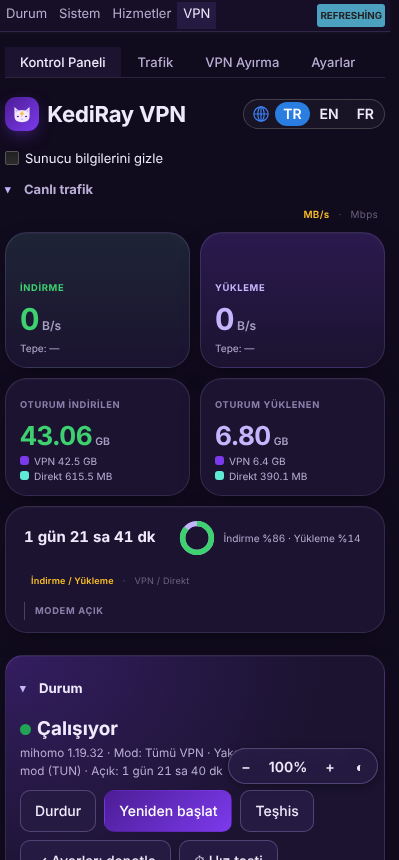
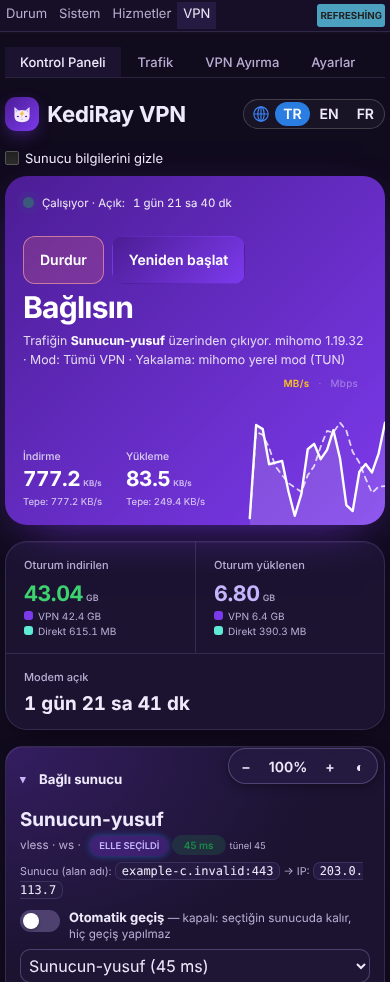
1.19.91: Kontrol Paneli yeni yerleşim (bağlantı kartı, oturum şeridi, araçlar)
Claude-Session: https://claude.ai/code/session_01UomefafxVQg1byN3XWgcWf

diff --git a/luci-app-kediray/htdocs/luci-static/resources/view/kediray/status.js b/luci-app-kediray/htdocs/luci-static/resources/view/kediray/status.js
@@ -581,7 +581,7 @@ function krTheme() {
 		/* Kedi tasarım sistemi: ortak stil dosyası + koyu/açık tema (Otomatik = sistem teması) */
 		if (!document.getElementById('kedi-css') && document.head) {
 			const lk = document.createElement('link');
-			lk.id = 'kedi-css'; lk.rel = 'stylesheet'; lk.href = '/luci-static/kedi.css?v=1.19.90';
+			lk.id = 'kedi-css'; lk.rel = 'stylesheet'; lk.href = '/luci-static/kedi.css?v=1.19.91';
 			document.head.appendChild(lk);
 		}
 		const mq = window.matchMedia ? window.matchMedia('(prefers-color-scheme: dark)') : null;
@@ -1119,17 +1119,25 @@ return view.extend({
 		if (this.ownPrev !== undefined && this.ownPrev !== !!st.own) { location.reload(); return; }
 		this.ownPrev = !!st.own;
 		this.own = !!st.own;
-		[this.elApps, this.elNodes, this.elDevs].forEach(el => { if (el) el.style.display = this.own ? 'none' : ''; });
+		[this.elApps, this.elNodes, this.elDevs, this.elTools].forEach(el => { if (el) el.style.display = this.own ? 'none' : ''; });
 		const dot = st.running ? 'kr-on' : (st.enabled ? 'kr-err' : 'kr-off');
 		const txt = st.running ? 'Çalışıyor' : (st.enabled ? 'Durdu — Günlük sekmesine bak' : 'Kapalı');
 		const modes = { rule: 'Tümü VPN', global: 'Tümü VPN', list: 'Sadece liste VPN' };
 		const cf = st.conflict || [];
-		this.card(this.elStatus, 'status', 'Durum', [
-			h('div', { 'class': 'kr-big' }, [h('span', { 'class': 'kr-dot ' + dot }), txt]),
-			h('div', { 'class': 'kr-sub' }, [
+		const act = st.active;
+		const toggle = cf.length && !st.enabled
+			? btn.call(this, '⇄ Güvenli geçiş', 'cbi-button-positive', () => this.doTakeover(st))
+			: btn.call(this, st.enabled ? 'Durdur' : 'Başlat', st.enabled ? 'cbi-button-negative' : 'cbi-button-positive', () => this.doToggle(st));
+		dom.content(this.elStatus, [
+			h('div', { 'class': 'kk-top' }, [
+				h('div', { 'class': 'kk-state' }, [h('span', { 'class': 'kr-dot ' + dot }), txt, st.running ? [' · Açık: ', live(st.uptime)] : '']),
+				h('div', { 'class': 'kk-acts' }, [toggle, btn.call(this, 'Yeniden başlat', 'cbi-button-action', () => this.doRestart())])
+			]),
+			h('div', { 'class': 'kk-title' }, st.running ? 'Bağlısın' : txt),
+			h('div', { 'class': 'kk-sub' }, [
+				st.running && act && act.name && !st.own ? [h('span', {}, 'Trafiğin'), ' ', h('b', {}, act.name), ' ', h('span', {}, 'üzerinden çıkıyor.'), ' '] : '',
 				(st.engine || 'Xray') + ' ', st.core || '?', st.own ? ' · Kendi yapılandırma: ' + (st.own_file || '-') : [' · Mod: ', modes[st.mode] || st.mode || '-'],
 				' · Yakalama: ', ({ mixed: 'Mixed (TCP çekirdek + UDP hev)', tun: 'TUN (hepsi hev-socks5-tunnel)', tproxy: 'TPROXY', redirect: 'Redirect (sadece TCP)', own: 'Dosyadaki TUN / redirect girişi', native: 'mihomo yerel mod (TUN)' })[st.capture] || st.capture || '-',
-				st.running ? [' · Açık: ', live(st.uptime)] : '',
 				st.direct_dead ? ' · Direkt çıkış yok: "direkt" uygulamalar da VPN\'den çıkıyor' : ''
 			]),
 			cf.length ? h('div', { 'class': 'kr-warn' }, [
@@ -1144,19 +1152,19 @@ return view.extend({
 			st.last_error ? h('div', { 'class': 'kr-errs' }, [
 				h('b', {}, 'Yapılandırma hatası — VPN başlatılamadı'),
 				h('pre', { 'style': 'white-space:pre-wrap;margin:6px 0 0;font-size:.85em' }, st.last_error)
-			]) : '',
-			h('div', { 'class': 'kr-row' }, [
-				cf.length && !st.enabled
-					? btn.call(this, '⇄ Güvenli geçiş', 'cbi-button-positive', () => this.doTakeover(st))
-					: btn.call(this, st.enabled ? 'Durdur' : 'Başlat', st.enabled ? 'cbi-button-negative' : 'cbi-button-positive', () => this.doToggle(st)),
-				btn.call(this, 'Yeniden başlat', 'cbi-button-action', () => this.doRestart()),
-				btn.call(this, 'Teşhis', '', () => this.doCheck()),
-				btn.call(this, '✓ Ayarları denetle', '', () => this.doValidate(), 'Yazım/alan hatası ve Xray testi'),
-				btn.call(this, '⏱ Hız testi', '', () => this.doSpeed(), 'Direkt ve VPN hızını karşılaştır'),
-				btn.call(this, '🐢 Sayfa gecikmesi', '', () => this.doWebtest(), 'Sayfa neden geç açılıyor: DNS mi, tünel mi?'),
-				btn.call(this, '🔎 Takılma avı', '', () => this.doHunt(), 'Tarayıcıda takılan adresleri arka arkaya dener: takılma DNS\'te mi bağlantıda mı?'),
-				btn.call(this, '🤝 Sunucu el sıkışması', '', () => this.doDial(), 'Sunucu bağlantıyı kaç kez düşürüyor (günlükteki EOF hatası)'),
-				btn.call(this, '{ } ' + (st.engine || 'Xray') + ' yapılandırması', '', () => this.showConfig(), 'Üretilen tam config.json')
+			]) : ''
+		]);
+		const tool = (label, desc, fn) => h('button', { 'class': 'kk-tool', 'type': 'button', 'title': desc, 'click': ui.createHandlerFn(this, fn) }, [h('b', {}, label), h('span', {}, desc)]);
+		dom.content(this.elTools, [
+			h('h3', { 'class': 'kk-h' }, 'Araçlar'),
+			h('div', { 'class': 'kk-toolgrid' }, [
+				tool('Teşhis', 'İnternet gitmişse buna bas, çıkan metni olduğu gibi gönder.', () => this.doCheck()),
+				tool('✓ Ayarları denetle', 'Yazım/alan hatası ve Xray testi', () => this.doValidate()),
+				tool('⏱ Hız testi', 'Direkt ve VPN hızını karşılaştır', () => this.doSpeed()),
+				tool('🐢 Sayfa gecikmesi', 'Sayfa neden geç açılıyor: DNS mi, tünel mi?', () => this.doWebtest()),
+				tool('🔎 Takılma avı', 'Tarayıcıda takılan adresleri arka arkaya dener: takılma DNS\'te mi bağlantıda mı?', () => this.doHunt()),
+				tool('🤝 Sunucu el sıkışması', 'Sunucu bağlantıyı kaç kez düşürüyor (günlükteki EOF hatası)', () => this.doDial()),
+				tool('{ } ' + (st.engine || 'Xray') + ' yapılandırması', 'Üretilen tam config.json', () => this.showConfig())
 			])
 		]);
 		if (st.own) {
@@ -1732,18 +1740,22 @@ return view.extend({
 		lb.rsw = h('div', { 'class': 'krl-rsw' }, [rmk('io', 'İndirme / Yükleme'), h('i', {}, '·'), rmk('vd', 'VPN / Direkt')]);
 		rpaint();
 		lb.pct = h('div', { 'class': 'krl-sub' }, 'Henüz veri yok');
-		return h('div', { 'class': 'krl-band kr-traffic' }, [
-			speed('d', 'krl-down', 'İndirme'),
-			speed('u', 'krl-up', 'Yükleme'),
-			sess('sd', 'krl-sdown', 'Oturum indirilen'),
-			sess('su', 'krl-sup', 'Oturum yüklenen'),
-			h('div', { 'class': 'krl-tile krl-info' }, [
-				h('div', { 'class': 'krl-val' }, lb.up),
-				h('div', { 'class': 'krl-rrow' }, [lb.ring, lb.pct]),
-				lb.rsw,
-				h('div', { 'class': 'krl-lbl' }, 'Modem açık')
+		// parçalar render() içinde yerleştirilir: bağlantı kartı (hız), oturum şeridi, halka kartı
+		lb.parts = {
+			down: speed('d', 'krl-down', 'İndirme'),
+			up: speed('u', 'krl-up', 'Yükleme'),
+			sdown: sess('sd', 'krl-sdown', 'Oturum indirilen'),
+			sup: sess('su', 'krl-sup', 'Oturum yüklenen'),
+			upc: h('div', { 'class': 'krl-tile krl-upc' }, [
+				h('div', { 'class': 'krl-lbl' }, 'Modem açık'),
+				h('div', { 'class': 'krl-val' }, lb.up)
+			]),
+			ring: h('div', { 'class': 'kr-card krl-ringcard kr-traffic' }, [
+				h('div', { 'class': 'krl-ringhd' }, [h('h3', {}, 'Trafik dağılımı'), lb.rsw]),
+				h('div', { 'class': 'krl-rrow' }, [lb.ring, lb.pct])
 			])
-		]);
+		};
+		return null;
 	},
 
 	ringMode() { return this.rm || 'io'; },   // her açılışta İndirme / Yükleme
@@ -1816,7 +1828,9 @@ return view.extend({
 	render(data) {
 		const [st, nodes, apps, devs] = data;
 		this.nodes = nodes || [];
-		this.elStatus = h('div', { 'class': 'kr-card' });
+		this.buildLiveBand();
+		this.elStatus = h('div', { 'class': 'kk-hero-top' });
+		this.elTools = h('div', { 'class': 'kk-tools' });
 		this.elNode = h('div', { 'class': 'kr-card' });
 		this.elApps = h('div', { 'class': 'kr-card' });
 		this.elNodes = h('div', { 'class': 'kr-card', 'style': 'margin-bottom:14px' });
@@ -1849,9 +1863,14 @@ return view.extend({
 			h('style', {}, CSS),
 			h('h2', {}, [h('img', { 'src': '/luci-static/kedi-logo.svg', 'style': 'height:1.3em;vertical-align:-0.25em;margin-right:8px;border-radius:6px' }), 'KediRay VPN']),
 			krLicBanner(),
-			// başlığa tıklayınca küçülür/açılır; tercih tarayıcıda saklanır (diğer kartlarla aynı sistem)
-			h('div', { 'style': 'margin:0 0 6px' }, this.fold('live', 'Canlı trafik', h('div', {}, [this.buildRateSeg(), this.buildLiveBand()]))),
-			h('div', { 'class': 'kr-grid' }, [this.elStatus, this.elNode, this.elApps]),
+			h('div', { 'class': 'kk-hero kr-traffic' }, [
+				this.elStatus,
+				h('div', { 'class': 'kk-live' }, [this.buildRateSeg(), this.lb.parts.down, this.lb.parts.up])
+			]),
+			h('div', { 'class': 'krl-strip kr-traffic' }, [this.lb.parts.sdown, this.lb.parts.sup, this.lb.parts.upc]),
+			h('div', { 'class': 'kr-grid kk-two' }, [this.elNode, this.elApps]),
+			this.lb.parts.ring,
+			this.elTools,
 			this.elNodes,
 			this.elDevs
 		]);

diff --git a/luci-app-kediray/htdocs/luci-static/kedi.css b/luci-app-kediray/htdocs/luci-static/kedi.css
@@ -215,3 +215,78 @@ html[data-kedi] body header .active > a,html[data-kedi] body header .nav li.acti
 html[data-kedi] body .cbi-page-actions{background:transparent!important;border:0!important;padding:8px 0!important}
 html[data-kedi] body .cbi-page-actions .cbi-button-save,html[data-kedi] body .cbi-page-actions .cbi-button-apply,html[data-kedi] body .cbi-page-actions .btn.important{background:linear-gradient(135deg,var(--k-a1),var(--k-a2))!important;color:#fff!important;border-color:transparent!important}
 html[data-kedi] body .cbi-title-ref,html[data-kedi] body .cbi-tooltip{color:var(--k-ink)}
+
+/* ======================= Kontrol Paneli: bağlantı kartı (konsept) ======================= */
+html[data-kedi] .kk-hero{position:relative;overflow:hidden;border-radius:28px;color:#fff;margin:0 0 16px;box-shadow:0 18px 50px -22px rgba(124,58,237,.75);
+	background:linear-gradient(135deg,var(--k-a1),var(--k-a2));animation:none}
+html[data-kedi] .kk-hero-top{padding:24px 26px 0;position:relative;z-index:2}
+html[data-kedi] .kk-top{display:flex;justify-content:space-between;align-items:flex-start;gap:12px;flex-wrap:wrap}
+html[data-kedi] .kk-state{display:flex;align-items:center;gap:8px;font-size:.88em;color:rgba(255,255,255,.9);margin-bottom:12px}
+html[data-kedi] .kk-state .kr-dot{margin:0;flex:none}
+html[data-kedi] .kk-title{margin:0;font-size:clamp(30px,5vw,46px);line-height:1.05;font-weight:750;letter-spacing:-.025em;color:#fff}
+html[data-kedi] .kk-sub{margin-top:9px;max-width:62ch;font-size:.95em;line-height:1.5;color:rgba(255,255,255,.82)}
+html[data-kedi] .kk-sub b{color:#fff}
+html[data-kedi] .kk-acts{display:flex;gap:8px;flex-wrap:wrap}
+html[data-kedi] .kk-hero .btn,html[data-kedi] .kk-hero .cbi-button{background:rgba(255,255,255,.12)!important;color:#fff!important;border:1px solid rgba(255,255,255,.32)!important;border-radius:12px!important;animation:none!important;min-height:0;padding:9px 16px;font-weight:600}
+html[data-kedi] .kk-hero .btn:hover{background:rgba(255,255,255,.22)!important;filter:none}
+html[data-kedi] .kk-hero .cbi-button-negative{background:rgba(242,112,109,.22)!important;border-color:rgba(255,170,168,.6)!important;color:#fff!important}
+html[data-kedi] .kk-hero .kr-warn,html[data-kedi] .kk-hero .kr-errs{background:rgba(0,0,0,.28);border-color:rgba(255,255,255,.25);color:#fff;margin-top:12px}
+html[data-kedi] .kk-hero .kr-warn *,html[data-kedi] .kk-hero .kr-errs *{color:#fff!important}
+html[data-kedi] .kk-live{position:relative;display:flex;gap:34px;align-items:flex-end;flex-wrap:wrap;min-height:160px;padding:0 26px 16px;margin-top:6px;z-index:1}
+html[data-kedi] .kk-live .krl-usw{position:absolute;right:20px;top:-4px;margin:0;z-index:3;color:#fff}
+html[data-kedi] .kk-live .krl-usw span{color:rgba(255,255,255,.75)}
+html[data-kedi] .kk-live .krl-usw span.krl-on{color:var(--k-bolt)}
+html[data-kedi] .kk-live .krl-tile{position:static;background:transparent!important;border:0!important;box-shadow:none!important;padding:0;min-height:0;grid-column:auto;align-items:flex-start;text-align:left;overflow:visible;z-index:2}
+html[data-kedi] .kk-live .krl-spark{position:absolute;left:0;right:0;top:34px;bottom:0;height:auto;opacity:1;z-index:0}
+html[data-kedi] .kk-live .krl-down{--c:#fff}
+html[data-kedi] .kk-live .krl-up{--c:rgba(255,255,255,.78)}
+html[data-kedi] .kk-live .krl-up .krl-line{stroke-dasharray:5 5;stroke-width:1.8}
+html[data-kedi] .kk-live .krl-down .krl-line{stroke-width:2.4}
+html[data-kedi] .kk-live .krl-area{opacity:.12}
+html[data-kedi] .kk-live .krl-up .krl-area{opacity:.04}
+html[data-kedi] .kk-live .krl-val{color:#fff;margin:0;font-size:1em}
+html[data-kedi] .kk-live .krl-num{font-size:1.6em;font-weight:700}
+html[data-kedi] .kk-live .krl-unit,html[data-kedi] .kk-live .krl-peak,html[data-kedi] .kk-live .krl-lbl{color:rgba(255,255,255,.75)}
+html[data-kedi] .kk-live .krl-lbl{text-transform:none;letter-spacing:0;font-size:.8em;font-weight:500;margin:0 0 2px}
+html[data-kedi] .kk-live .krl-peak{font-size:.74em}
+html[data-kedi] .kk-live .krl-tile > *{position:relative;z-index:2}
+html[data-kedi] .kk-live .krl-tile > .krl-spark{position:absolute;z-index:0}
+
+/* oturum şeridi */
+html[data-kedi] .krl-strip{display:grid;grid-template-columns:repeat(3,minmax(0,1fr));margin:0 0 16px;border:1px solid var(--k-line);border-radius:var(--k-r1);background:var(--k-card);box-shadow:var(--k-shadow);overflow:hidden}
+html[data-kedi] .krl-strip .krl-tile{border:0;border-left:1px solid var(--k-line);border-radius:0;box-shadow:none;background:transparent;min-height:0;padding:14px 18px;grid-column:auto;align-items:flex-start;text-align:left}
+html[data-kedi] .krl-strip .krl-tile:first-child{border-left:0}
+html[data-kedi] .krl-strip .krl-val{font-size:1.1em}
+html[data-kedi] .krl-strip .krl-num{font-size:1.5em}
+html[data-kedi] .krl-strip .krl-upc .krl-val{color:var(--k-ink);font-size:1.45em;font-weight:700;margin-top:2px}
+html[data-kedi] .krl-strip .krl-lbl{order:-1;text-transform:none;letter-spacing:0;font-size:.85em;font-weight:500;color:var(--k-soft)}
+
+/* halka kartı */
+html[data-kedi] .krl-ringcard .krl-ringhd{display:flex;justify-content:space-between;align-items:center;gap:10px;flex-wrap:wrap;margin-bottom:8px}
+html[data-kedi] .krl-ringcard h3{margin:0}
+html[data-kedi] .krl-ringcard .krl-rrow{justify-content:flex-start;gap:16px}
+html[data-kedi] .krl-ringcard .krl-ring svg{width:84px;height:84px}
+html[data-kedi] .krl-ringcard .krl-sub{font-size:.95em;color:var(--k-ink)}
+html[data-kedi] .krl-ringcard{margin:0 0 16px}
+
+/* araçlar */
+html[data-kedi] .kk-tools{margin:4px 0 16px}
+html[data-kedi] .kk-h{margin:0 0 10px;font-size:1.05em;font-weight:650;color:var(--k-ink)!important}
+html[data-kedi] .kk-toolgrid{display:grid;grid-template-columns:repeat(auto-fill,minmax(210px,1fr));gap:12px}
+html[data-kedi] .kk-tool{display:flex;flex-direction:column;align-items:flex-start;gap:4px;text-align:left;padding:14px 16px;border-radius:var(--k-r2);border:1px solid var(--k-line);background:var(--k-card);color:var(--k-ink);cursor:pointer;box-shadow:var(--k-shadow);transition:border-color .15s,background .15s,transform .08s;font:inherit}
+html[data-kedi] .kk-tool:hover{border-color:var(--k-accent);background:color-mix(in srgb,var(--k-a2) 12%,var(--k-card))}
+html[data-kedi] .kk-tool:active{transform:translateY(1px)}
+html[data-kedi] .kk-tool b{font-weight:650;font-size:.98em}
+html[data-kedi] .kk-tool span{color:var(--k-soft);font-size:.84em;line-height:1.4;display:-webkit-box;-webkit-line-clamp:2;-webkit-box-orient:vertical;overflow:hidden}
+html[data-kedi] .kk-two{grid-template-columns:repeat(auto-fit,minmax(min(100%,360px),1fr))}
+
+@media (max-width:700px){
+	html[data-kedi] .kk-hero{border-radius:22px}
+	html[data-kedi] .kk-hero-top{padding:18px 18px 0}
+	html[data-kedi] .kk-live{padding:0 18px 14px;gap:24px;min-height:150px}
+	html[data-kedi] .krl-strip{grid-template-columns:1fr 1fr}
+	html[data-kedi] .krl-strip .krl-tile:nth-child(3){grid-column:1/-1;border-left:0;border-top:1px solid var(--k-line)}
+}
+html[data-kedi] body button.kk-tool{border-radius:var(--k-r2)!important;background:var(--k-card)!important;min-height:0;padding:14px 16px;border:1px solid var(--k-line)!important;box-shadow:var(--k-shadow)!important}
+html[data-kedi] body button.kk-tool:hover{background:color-mix(in srgb,var(--k-a2) 12%,var(--k-card))!important;border-color:var(--k-accent)!important}
+html[data-kedi] .kk-top{margin-bottom:8px}

diff --git a/luci-app-kediray/htdocs/luci-static/resources/view/kediray/i18n.js b/luci-app-kediray/htdocs/luci-static/resources/view/kediray/i18n.js
@@ -377,6 +377,11 @@ const DICT = {
 	"Mixed: TCP çekirdekten, UDP TUN'dan. TUN: her şey TUN'dan geçer; bazı hatlarda sayfalar hızlanır, UDP biraz gecikir. TPROXY: TCP ve UDP çekirdekte. Redirect: yalnız TCP. Paketler yoksa otomatik TPROXY'ye düşer (apk add hev-socks5-tunnel kmod-tun). Karşılaştırmak için Kontrol Paneli → \"🐢 Sayfa gecikmesi\".": ["Mixed: TCP from the kernel, UDP from TUN. TUN: everything goes through TUN; pages speed up on some lines, UDP lags slightly. TPROXY: TCP and UDP in the kernel. Redirect: TCP only. If the packages are missing it automatically falls back to TPROXY (apk add hev-socks5-tunnel kmod-tun). To compare: Dashboard → \"🐢 Page latency\".", "Mixed : TCP depuis le noyau, UDP depuis TUN. TUN : tout passe par TUN ; les pages s'accélèrent sur certaines lignes, l'UDP a un peu de latence. TPROXY : TCP et UDP dans le noyau. Redirect : TCP seulement. Si les paquets manquent, repli automatique sur TPROXY (apk add hev-socks5-tunnel kmod-tun). Pour comparer : Tableau de bord → « 🐢 Latence des pages »."],
 	"Mobil hat ayarı (5G/CGNAT)": ["Mobile line tuning (5G/CGNAT)", "Réglage ligne mobile (5G/CGNAT)"],
 	"Mobil hatta tünel anlık koparsa bilinen adresler beklemeden verilir, arkada yenilenir (Xray serveStale). Uygulamalar \"DNS zaman aşımı\" yaşamaz.": ["If the tunnel drops momentarily on a mobile line, known addresses are served without waiting and refreshed in the background (Xray serveStale). Apps don't see \"DNS timeout\".", "Si le tunnel coupe un instant sur une ligne mobile, les adresses connues sont servies sans attendre et actualisées en arrière-plan (Xray serveStale). Les applis ne subissent pas de « délai DNS dépassé »."],
+	"Bağlısın": ["You're connected", "Vous êtes connecté"],
+	"Trafiğin": ["Your traffic goes through", "Votre trafic passe par"],
+	"üzerinden çıkıyor.": ["to the internet.", "vers Internet."],
+	"Araçlar": ["Tools", "Outils"],
+	"Trafik dağılımı": ["Traffic split", "Répartition du trafic"],
 	"Modem açık": ["Modem on", "Modem allumé"],
 	"Modem tarafında takılma yok: bu adresler her denemede hızlı açıldı. Takılma tarayıcı tarafındadır (Chrome → Gizlilik → \"Güvenli DNS\" kapalı olmalı; ayrıca IPv6/QUIC).": ["No stalls on the modem side: these addresses opened fast on every attempt. The stalling is on the browser side (Chrome → Privacy → \"Secure DNS\" should be off; also IPv6/QUIC).", "Aucun blocage côté modem : ces adresses se sont ouvertes rapidement à chaque essai. Le blocage vient du navigateur (Chrome → Confidentialité → « DNS sécurisé » doit être désactivé ; aussi IPv6/QUIC)."],
 	"Modemde taranabilecek bant listesi bulunamadı.": ["No scannable band list found on the modem.", "Aucune liste de bandes à scanner trouvée sur le modem."],

diff --git a/luci-app-kediray/htdocs/luci-static/resources/view/kediray/ayir.js b/luci-app-kediray/htdocs/luci-static/resources/view/kediray/ayir.js
@@ -109,7 +109,7 @@ function krTheme() {
 		/* Kedi tasarım sistemi: ortak stil dosyası + koyu/açık tema (Otomatik = sistem teması) */
 		if (!document.getElementById('kedi-css') && document.head) {
 			const lk = document.createElement('link');
-			lk.id = 'kedi-css'; lk.rel = 'stylesheet'; lk.href = '/luci-static/kedi.css?v=1.19.90';
+			lk.id = 'kedi-css'; lk.rel = 'stylesheet'; lk.href = '/luci-static/kedi.css?v=1.19.91';
 			document.head.appendChild(lk);
 		}
 		const mq = window.matchMedia ? window.matchMedia('(prefers-color-scheme: dark)') : null;

diff --git a/luci-app-kediray/htdocs/luci-static/resources/view/kediray/trafik.js b/luci-app-kediray/htdocs/luci-static/resources/view/kediray/trafik.js
@@ -609,7 +609,7 @@ function krTheme() {
 		/* Kedi tasarım sistemi: ortak stil dosyası + koyu/açık tema (Otomatik = sistem teması) */
 		if (!document.getElementById('kedi-css') && document.head) {
 			const lk = document.createElement('link');
-			lk.id = 'kedi-css'; lk.rel = 'stylesheet'; lk.href = '/luci-static/kedi.css?v=1.19.90';
+			lk.id = 'kedi-css'; lk.rel = 'stylesheet'; lk.href = '/luci-static/kedi.css?v=1.19.91';
 			document.head.appendChild(lk);
 		}
 		const mq = window.matchMedia ? window.matchMedia('(prefers-color-scheme: dark)') : null;

diff --git a/luci-app-kediray/htdocs/luci-static/resources/view/kediray/about.js b/luci-app-kediray/htdocs/luci-static/resources/view/kediray/about.js
@@ -79,7 +79,7 @@ function krTheme() {
 		/* Kedi tasarım sistemi: ortak stil dosyası + koyu/açık tema (Otomatik = sistem teması) */
 		if (!document.getElementById('kedi-css') && document.head) {
 			const lk = document.createElement('link');
-			lk.id = 'kedi-css'; lk.rel = 'stylesheet'; lk.href = '/luci-static/kedi.css?v=1.19.90';
+			lk.id = 'kedi-css'; lk.rel = 'stylesheet'; lk.href = '/luci-static/kedi.css?v=1.19.91';
 			document.head.appendChild(lk);
 		}
 		const mq = window.matchMedia ? window.matchMedia('(prefers-color-scheme: dark)') : null;

diff --git a/luci-app-kediray/htdocs/luci-static/resources/view/kediray/cores.js b/luci-app-kediray/htdocs/luci-static/resources/view/kediray/cores.js
@@ -54,7 +54,7 @@ function krTheme() {
 		/* Kedi tasarım sistemi: ortak stil dosyası + koyu/açık tema (Otomatik = sistem teması) */
 		if (!document.getElementById('kedi-css') && document.head) {
 			const lk = document.createElement('link');
-			lk.id = 'kedi-css'; lk.rel = 'stylesheet'; lk.href = '/luci-static/kedi.css?v=1.19.90';
+			lk.id = 'kedi-css'; lk.rel = 'stylesheet'; lk.href = '/luci-static/kedi.css?v=1.19.91';
 			document.head.appendChild(lk);
 		}
 		const mq = window.matchMedia ? window.matchMedia('(prefers-color-scheme: dark)') : null;

diff --git a/luci-app-kediray/htdocs/luci-static/resources/view/kediray/dash.js b/luci-app-kediray/htdocs/luci-static/resources/view/kediray/dash.js
@@ -35,7 +35,7 @@ function krTheme() {
 		/* Kedi tasarım sistemi: ortak stil dosyası + koyu/açık tema (Otomatik = sistem teması) */
 		if (!document.getElementById('kedi-css') && document.head) {
 			const lk = document.createElement('link');
-			lk.id = 'kedi-css'; lk.rel = 'stylesheet'; lk.href = '/luci-static/kedi.css?v=1.19.90';
+			lk.id = 'kedi-css'; lk.rel = 'stylesheet'; lk.href = '/luci-static/kedi.css?v=1.19.91';
 			document.head.appendChild(lk);
 		}
 		const mq = window.matchMedia ? window.matchMedia('(prefers-color-scheme: dark)') : null;

diff --git a/luci-app-kediray/htdocs/luci-static/resources/view/kediray/log.js b/luci-app-kediray/htdocs/luci-static/resources/view/kediray/log.js
@@ -86,7 +86,7 @@ function krTheme() {
 		/* Kedi tasarım sistemi: ortak stil dosyası + koyu/açık tema (Otomatik = sistem teması) */
 		if (!document.getElementById('kedi-css') && document.head) {
 			const lk = document.createElement('link');
-			lk.id = 'kedi-css'; lk.rel = 'stylesheet'; lk.href = '/luci-static/kedi.css?v=1.19.90';
+			lk.id = 'kedi-css'; lk.rel = 'stylesheet'; lk.href = '/luci-static/kedi.css?v=1.19.91';
 			document.head.appendChild(lk);
 		}
 		const mq = window.matchMedia ? window.matchMedia('(prefers-color-scheme: dark)') : null;

diff --git a/luci-app-kediray/htdocs/luci-static/resources/view/kediray/own.js b/luci-app-kediray/htdocs/luci-static/resources/view/kediray/own.js
@@ -52,7 +52,7 @@ function krTheme() {
 		/* Kedi tasarım sistemi: ortak stil dosyası + koyu/açık tema (Otomatik = sistem teması) */
 		if (!document.getElementById('kedi-css') && document.head) {
 			const lk = document.createElement('link');
-			lk.id = 'kedi-css'; lk.rel = 'stylesheet'; lk.href = '/luci-static/kedi.css?v=1.19.90';
+			lk.id = 'kedi-css'; lk.rel = 'stylesheet'; lk.href = '/luci-static/kedi.css?v=1.19.91';
 			document.head.appendChild(lk);
 		}
 		const mq = window.matchMedia ? window.matchMedia('(prefers-color-scheme: dark)') : null;

diff --git a/luci-app-kediray/htdocs/luci-static/resources/view/kediray/settings.js b/luci-app-kediray/htdocs/luci-static/resources/view/kediray/settings.js
@@ -65,7 +65,7 @@ function krTheme() {
 		/* Kedi tasarım sistemi: ortak stil dosyası + koyu/açık tema (Otomatik = sistem teması) */
 		if (!document.getElementById('kedi-css') && document.head) {
 			const lk = document.createElement('link');
-			lk.id = 'kedi-css'; lk.rel = 'stylesheet'; lk.href = '/luci-static/kedi.css?v=1.19.90';
+			lk.id = 'kedi-css'; lk.rel = 'stylesheet'; lk.href = '/luci-static/kedi.css?v=1.19.91';
 			document.head.appendChild(lk);
 		}
 		const mq = window.matchMedia ? window.matchMedia('(prefers-color-scheme: dark)') : null;

diff --git a/README.md b/README.md
@@ -10,7 +10,7 @@ OpenWrt için Xray tabanlı VPN. LuCI arayüzü ve `kediray` komut satırı arac
 
 ## Özellikler
 
-- **Yeni tasarım (1.19.90):** mor Kedi teması, koyu/açık/otomatik, telefonda da rahat; aynı renk modeli AW1K Panel ile ortak
+- **Yeni tasarım (1.19.91):** mor Kedi teması, koyu/açık/otomatik, telefonda da rahat; aynı renk modeli AW1K Panel ile ortak
 - Xray tabanlı VPN, birden fazla sunucu (düğüm), en iyi sunucuyu otomatik seçme
 - **Bağlantıyı kes:** sunucudan ayrıl, VPN açık kalsın, trafik doğrudan çıksın
 - **VPN Ayırma:** uygulama bazında yol seçimi (VPN, doğrudan, WARP, parçalama)
@@ -132,7 +132,7 @@ Xray-based VPN for OpenWrt, with a LuCI interface and the `kediray` command-line
 
 ### Features
 
-- **New design (1.19.90):** purple Kedi theme, dark/light/auto, phone-friendly; same colour model as AW1K Panel
+- **New design (1.19.91):** purple Kedi theme, dark/light/auto, phone-friendly; same colour model as AW1K Panel
 - Xray-based VPN with multiple servers (nodes) and automatic best-server selection
 - **Disconnect:** leave the server but keep the VPN on, traffic goes out directly
 - **Split routing:** per-app route (VPN, direct, WARP, fragmentation)
